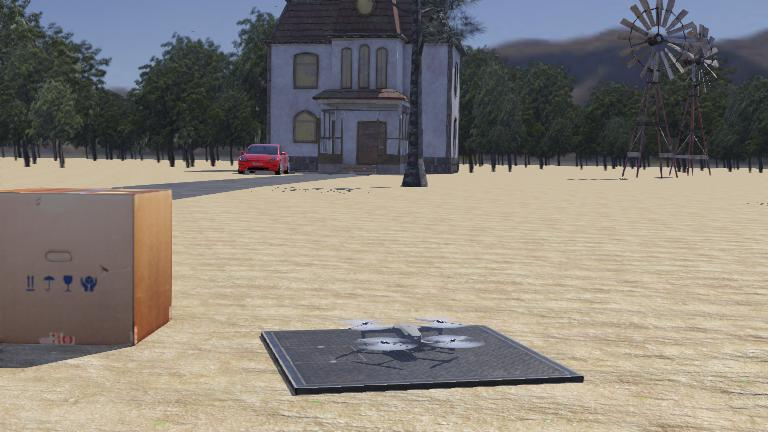
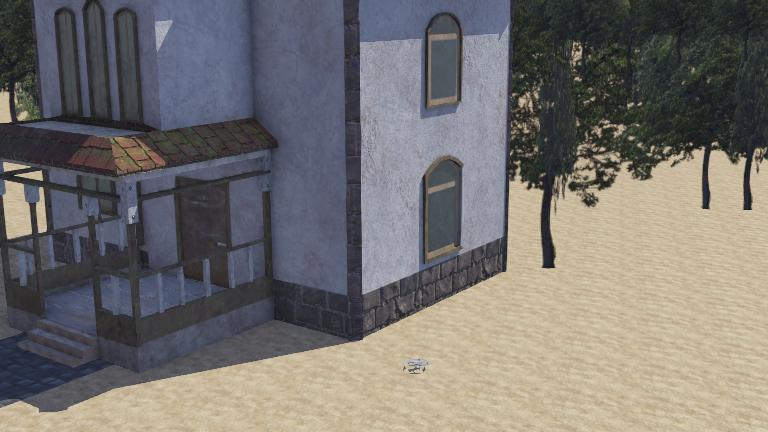
rudimentary obstacle avoidance

diff --git a/controllers/inspection_drone/inspection_drone.py b/controllers/inspection_drone/inspection_drone.py
@@ -9,6 +9,8 @@ try:
 except ImportError:
     sys.exit("Warning: 'numpy' module not found.")
 
+CLOCKWISE = 1
+COUNTER_CLOCKWISE = -1
 
 def clamp(value, value_min, value_max):
     return min(max(value, value_min), value_max)
@@ -61,6 +63,11 @@ class Mavic (Robot):
         self.target_position = [0, 0, 0]
         self.target_index = 0
         self.target_altitude = 0
+
+        self.avoidance_state = "NORMAL"
+        self.avoidance_direction = CLOCKWISE
+        self.avoidance_yaw = 0.0
+        self.bypass_start_position = None
 
     def set_position(self, pos):
         """
@@ -121,6 +128,25 @@ class Mavic (Robot):
                 angle_left, distance_left))
         return yaw_disturbance, pitch_disturbance
 
+    def minimum_valid_range(self, values, minimum, maximum):
+        valid = [
+            value for value in values
+            if math.isfinite(value)
+            and minimum <= value <= maximum
+        ]
+
+        return min(valid) if valid else float("inf")
+
+
+    def normalize_angle(self, angle):
+        while angle > math.pi:
+            angle -= 2.0 * math.pi
+
+        while angle < -math.pi:
+            angle += 2.0 * math.pi
+
+        return angle
+
     def run(self):
         t1 = self.getTime()
 
@@ -130,10 +156,10 @@ class Mavic (Robot):
 
         # Start with short, nearby waypoints.
         waypoints = [
-            [3.0, 0.0],
-            [3.0, 3.0],
-            [0.0, 3.0],
-            [0.0, 0.5]
+            [-45, 5],
+            [-55, 5],
+            [-55, 15],
+            [-45, 15]
         ]
 
         self.target_altitude = 2.0
@@ -159,34 +185,154 @@ class Mavic (Robot):
 
             # Read LiDAR.
             ranges = self.lidar.getRangeImage()
+            scan_size = len(ranges)
 
-            valid_ranges = [
-                distance
-                for distance in ranges
-                if math.isfinite(distance)
-                and self.lidar.getMinRange()
-                <= distance
-                <= self.lidar.getMaxRange()
+            minimum_range = self.lidar.getMinRange()
+            maximum_range = self.lidar.getMaxRange()
+
+            # For a cylindrical 360-degree Webots LiDAR, the middle
+            # of the range image should face forward.
+            front_center = scan_size // 2
+            front_half_width = scan_size // 12  # 30 degrees each side
+
+            front_values = ranges[
+                front_center - front_half_width:
+                front_center + front_half_width
             ]
 
-            closest_obstacle = (
-                min(valid_ranges)
-                if valid_ranges
-                else float("inf")
+            # Approximate 90-degree sectors on either side.
+            left_values = ranges[
+                scan_size // 8:
+                3 * scan_size // 8
+            ]
+
+            right_values = ranges[
+                5 * scan_size // 8:
+                7 * scan_size // 8
+            ]
+
+            front_distance = self.minimum_valid_range(
+                front_values,
+                minimum_range,
+                maximum_range
             )
 
-            # Begin horizontal movement after takeoff.
+            left_distance = self.minimum_valid_range(
+                left_values,
+                minimum_range,
+                maximum_range
+            )
+
+            right_distance = self.minimum_valid_range(
+                right_values,
+                minimum_range,
+                maximum_range
+            )
+
+            WARNING_DISTANCE = 3.5
+            BYPASS_DISTANCE = 3.0
+
             if altitude > self.target_altitude - 1.0:
-                if self.getTime() - t1 > 0.1:
-                    yaw_disturbance, pitch_disturbance = (
-                        self.move_to_target(
-                            waypoints,
-                            verbose_movement=True,
-                            verbose_target=True
+
+                # -----------------------------------------
+                # Normal waypoint navigation
+                # -----------------------------------------
+
+                if self.avoidance_state == "NORMAL":
+                    if front_distance < WARNING_DISTANCE:
+                        pitch_disturbance = 0.0
+
+                        # Turn toward the side with more open space.
+                        if left_distance > right_distance:
+                            self.avoidance_direction = 1
+                            print("Obstacle ahead: turning left")
+                        else:
+                            self.avoidance_direction = -1
+                            print("Obstacle ahead: turning right")
+
+                        # Turn approximately 90 degrees.
+                        self.avoidance_yaw = self.normalize_angle(
+                            yaw
+                            + self.avoidance_direction
+                            * math.pi / 2.0
                         )
+
+                        self.avoidance_state = "TURN"
+
+                    elif self.getTime() - t1 > 0.1:
+                        yaw_disturbance, pitch_disturbance = (
+                            self.move_to_target(waypoints)
+                        )
+
+                        t1 = self.getTime()
+
+                # -----------------------------------------
+                # Turn away from obstacle
+                # -----------------------------------------
+
+                elif self.avoidance_state == "TURN":
+                    pitch_disturbance = 0.0
+
+                    yaw_error = self.normalize_angle(
+                        self.avoidance_yaw - yaw
                     )
 
-                    t1 = self.getTime()
+                    yaw_disturbance = clamp(
+                        0.8 * yaw_error,
+                        -self.MAX_YAW_DISTURBANCE,
+                        self.MAX_YAW_DISTURBANCE
+                    )
+
+                    if abs(yaw_error) < 0.12:
+                        self.bypass_start_position = [
+                            x_pos,
+                            y_pos
+                        ]
+
+                        self.avoidance_state = "BYPASS"
+                        print("Turn complete: beginning bypass")
+
+                # -----------------------------------------
+                # Fly alongside the obstacle
+                # -----------------------------------------
+
+                elif self.avoidance_state == "BYPASS":
+                    yaw_error = self.normalize_angle(
+                        self.avoidance_yaw - yaw
+                    )
+
+                    yaw_disturbance = clamp(
+                        0.8 * yaw_error,
+                        -self.MAX_YAW_DISTURBANCE,
+                        self.MAX_YAW_DISTURBANCE
+                    )
+
+                    # Negative pitch disturbance moves forward.
+                    pitch_disturbance = -0.5
+
+                    distance_traveled = math.hypot(
+                        x_pos - self.bypass_start_position[0],
+                        y_pos - self.bypass_start_position[1]
+                    )
+
+                    # Stop if another obstacle appears.
+                    if front_distance < 1.5:
+                        pitch_disturbance = 0.0
+
+                        self.avoidance_yaw = self.normalize_angle(
+                            yaw
+                            + self.avoidance_direction
+                            * math.pi / 2.0
+                        )
+
+                        self.avoidance_state = "TURN"
+
+                    elif distance_traveled >= BYPASS_DISTANCE:
+                        pitch_disturbance = 0.0
+                        yaw_disturbance = 0.0
+                        self.avoidance_state = "NORMAL"
+
+                        print("Bypass complete: resuming waypoint")
 
             # Flight stabilization.
             roll_input = (
